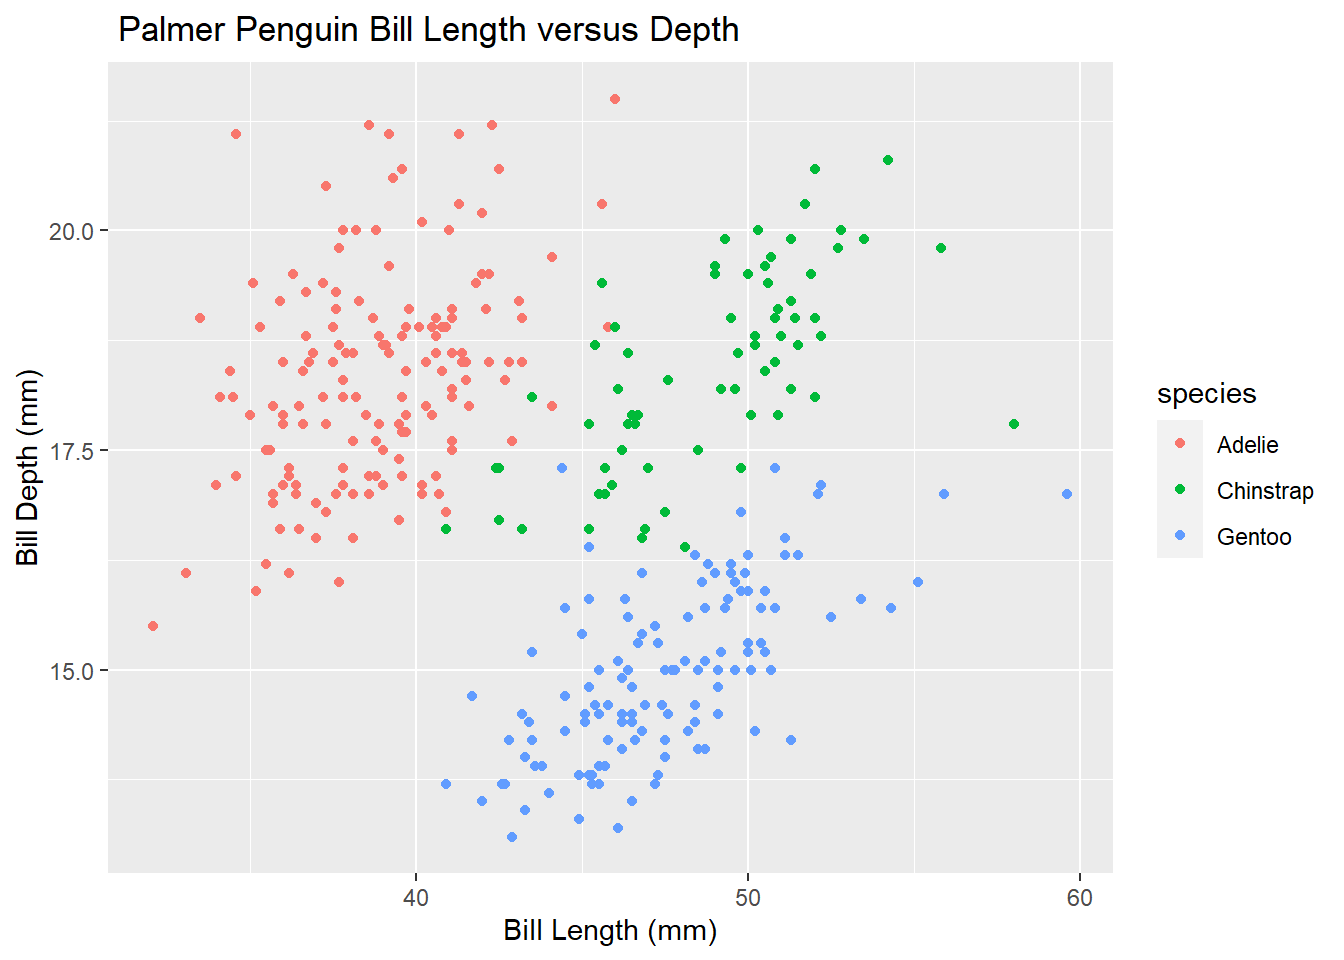
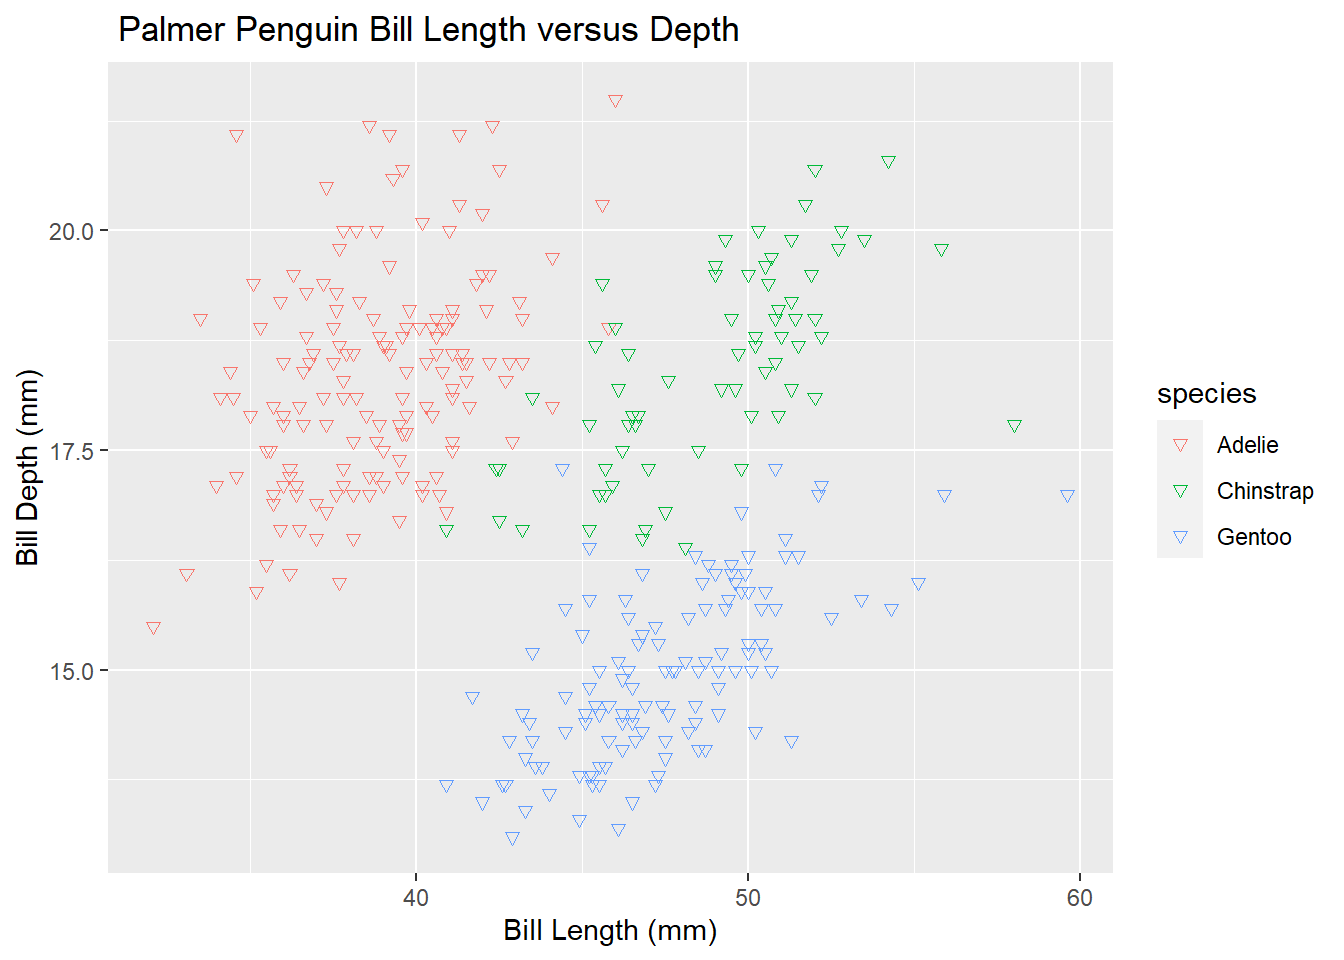
changed formatting in plots

diff --git a/EDS212Class2Day2Tasks.html b/EDS212Class2Day2Tasks.html
@@ -150,7 +150,7 @@ pre > code.sourceCode > span > a:first-child::before { text-decoration: underlin
 <h2 class="anchored" data-anchor-id="section-4-day-2-tasks">Section 4 Day 2 Tasks</h2>
 <div class="cell">
 <div class="sourceCode cell-code" id="cb12"><pre class="sourceCode r code-with-copy"><code class="sourceCode r"><span id="cb12-1"><a href="#cb12-1" aria-hidden="true" tabindex="-1"></a><span class="fu">ggplot</span>(<span class="at">data =</span> penguins, <span class="fu">aes</span>(<span class="at">x=</span>bill_length_mm, <span class="at">y=</span>bill_depth_mm,<span class="at">color=</span>species))<span class="sc">+</span></span>
-<span id="cb12-2"><a href="#cb12-2" aria-hidden="true" tabindex="-1"></a>  <span class="fu">geom_point</span>()<span class="sc">+</span></span>
+<span id="cb12-2"><a href="#cb12-2" aria-hidden="true" tabindex="-1"></a>  <span class="fu">geom_point</span>(<span class="at">shape=</span><span class="dv">6</span>)<span class="sc">+</span></span>
 <span id="cb12-3"><a href="#cb12-3" aria-hidden="true" tabindex="-1"></a>  <span class="fu">labs</span>(<span class="at">x=</span><span class="st">"Bill Length (mm)"</span>,<span class="at">y=</span><span class="st">"Bill Depth (mm)"</span>,<span class="at">title=</span><span class="st">" Palmer Penguin Bill Length versus Depth"</span>)</span></code><button title="Copy to Clipboard" class="code-copy-button"><i class="bi"></i></button></pre></div>
 <div class="cell-output cell-output-stderr">
 <pre><code>Warning: Removed 2 rows containing missing values (`geom_point()`).</code></pre>
@@ -163,8 +163,9 @@ pre > code.sourceCode > span > a:first-child::before { text-decoration: underlin
 <h3 class="anchored" data-anchor-id="now-making-a-jitter-plot">Now making a Jitter Plot</h3>
 <div class="cell">
 <div class="sourceCode cell-code" id="cb14"><pre class="sourceCode r code-with-copy"><code class="sourceCode r"><span id="cb14-1"><a href="#cb14-1" aria-hidden="true" tabindex="-1"></a><span class="fu">ggplot</span>(<span class="at">data =</span> penguins, <span class="fu">aes</span>(<span class="at">x=</span>species, <span class="at">y=</span>flipper_length_mm,<span class="at">color=</span>species))<span class="sc">+</span></span>
-<span id="cb14-2"><a href="#cb14-2" aria-hidden="true" tabindex="-1"></a>  <span class="fu">geom_jitter</span>()<span class="sc">+</span></span>
-<span id="cb14-3"><a href="#cb14-3" aria-hidden="true" tabindex="-1"></a>  <span class="fu">labs</span>(<span class="at">x=</span><span class="st">"Species"</span>,<span class="at">y=</span><span class="st">"Flipper Flipper (mm)"</span>,<span class="at">title=</span><span class="st">" Palmer Penguin Flipper Length of Species"</span>)</span></code><button title="Copy to Clipboard" class="code-copy-button"><i class="bi"></i></button></pre></div>
+<span id="cb14-2"><a href="#cb14-2" aria-hidden="true" tabindex="-1"></a>  <span class="fu">geom_jitter</span>(<span class="at">shape=</span><span class="dv">18</span>)<span class="sc">+</span></span>
+<span id="cb14-3"><a href="#cb14-3" aria-hidden="true" tabindex="-1"></a>  <span class="fu">scale_color_manual</span>(<span class="at">values =</span> <span class="fu">c</span>(<span class="st">"purple"</span>,<span class="st">"cyan3"</span>,<span class="st">"goldenrod"</span>))<span class="sc">+</span></span>
+<span id="cb14-4"><a href="#cb14-4" aria-hidden="true" tabindex="-1"></a>  <span class="fu">labs</span>(<span class="at">x=</span><span class="st">"Species"</span>,<span class="at">y=</span><span class="st">"Flipper Flipper (mm)"</span>,<span class="at">title=</span><span class="st">" Palmer Penguin Flipper Length of Species"</span>)</span></code><button title="Copy to Clipboard" class="code-copy-button"><i class="bi"></i></button></pre></div>
 <div class="cell-output cell-output-stderr">
 <pre><code>Warning: Removed 2 rows containing missing values (`geom_point()`).</code></pre>
 </div>
